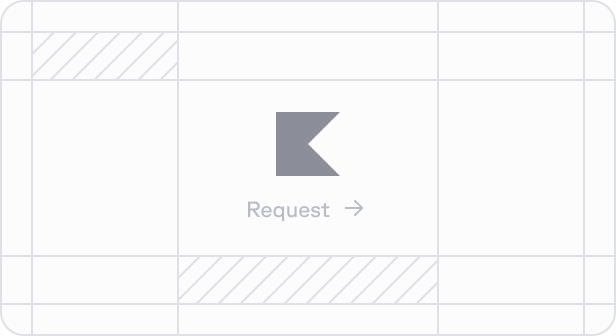
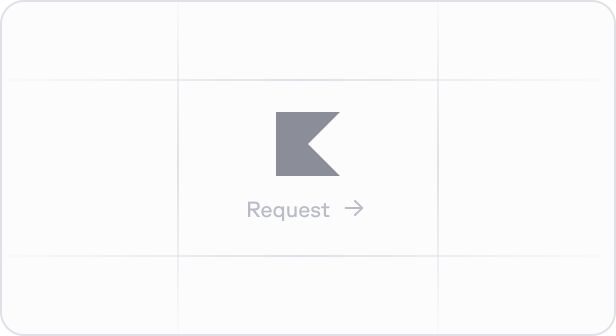
feat: updated sdk cards

diff --git a/fern/assets/styles.css b/fern/assets/styles.css
@@ -371,7 +371,47 @@ a[href*="changelog"] svg {
 
 .sdks-homepage {
   position: relative;
+  
+  .changelog-button {
+    display: flex;
+    padding: 0.25rem 0.5rem;
+    align-items: center;
+    justify-content: center;
+    border-radius: 0.5rem;
+    transition: background-color 0.15s ease-in-out;
+    position: relative;
+    height: 2rem;
+    text-decoration: none !important;
 
+    img {
+      flex-shrink: 0;
+      width: 16px;
+      height: 16px;
+      position: relative;
+    }
+
+    div {
+      font-size: 1rem;
+      white-space: nowrap;
+      max-width: 0;
+      opacity: 0;
+      overflow: hidden;
+      transition: all 0.15s cubic-bezier(0.4, 0, 0.2, 1);
+      width: 0;
+    }
+
+    &:hover {
+      gap: 0.25rem;
+      background-color: var(--grayscale-a3);
+
+      div {
+        max-width: 200px;
+        opacity: 1;
+        width: fit-content;
+      }
+    }
+  }
+  
   .dashed-pattern-left {
     position: absolute;
     left: -4rem;
